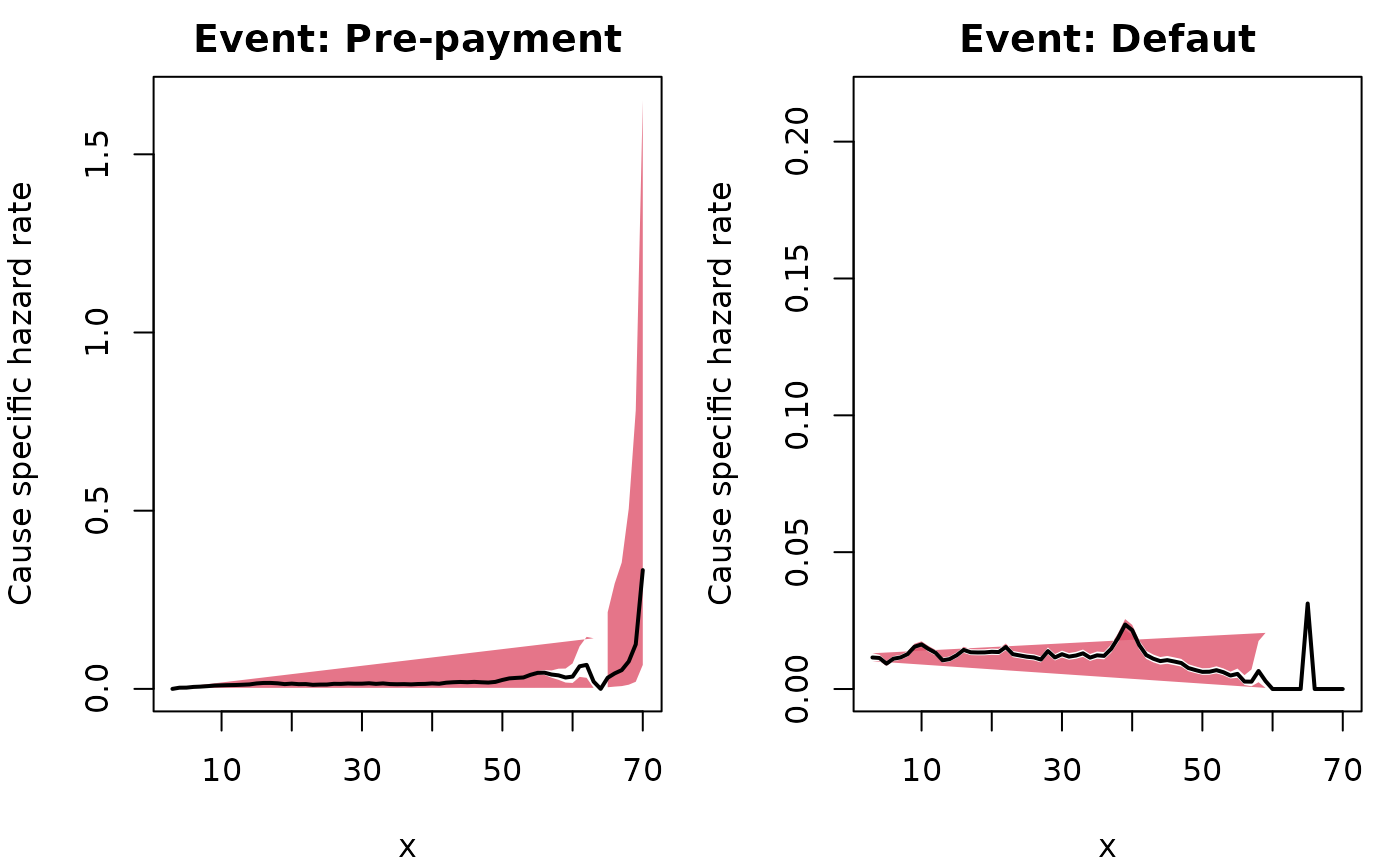
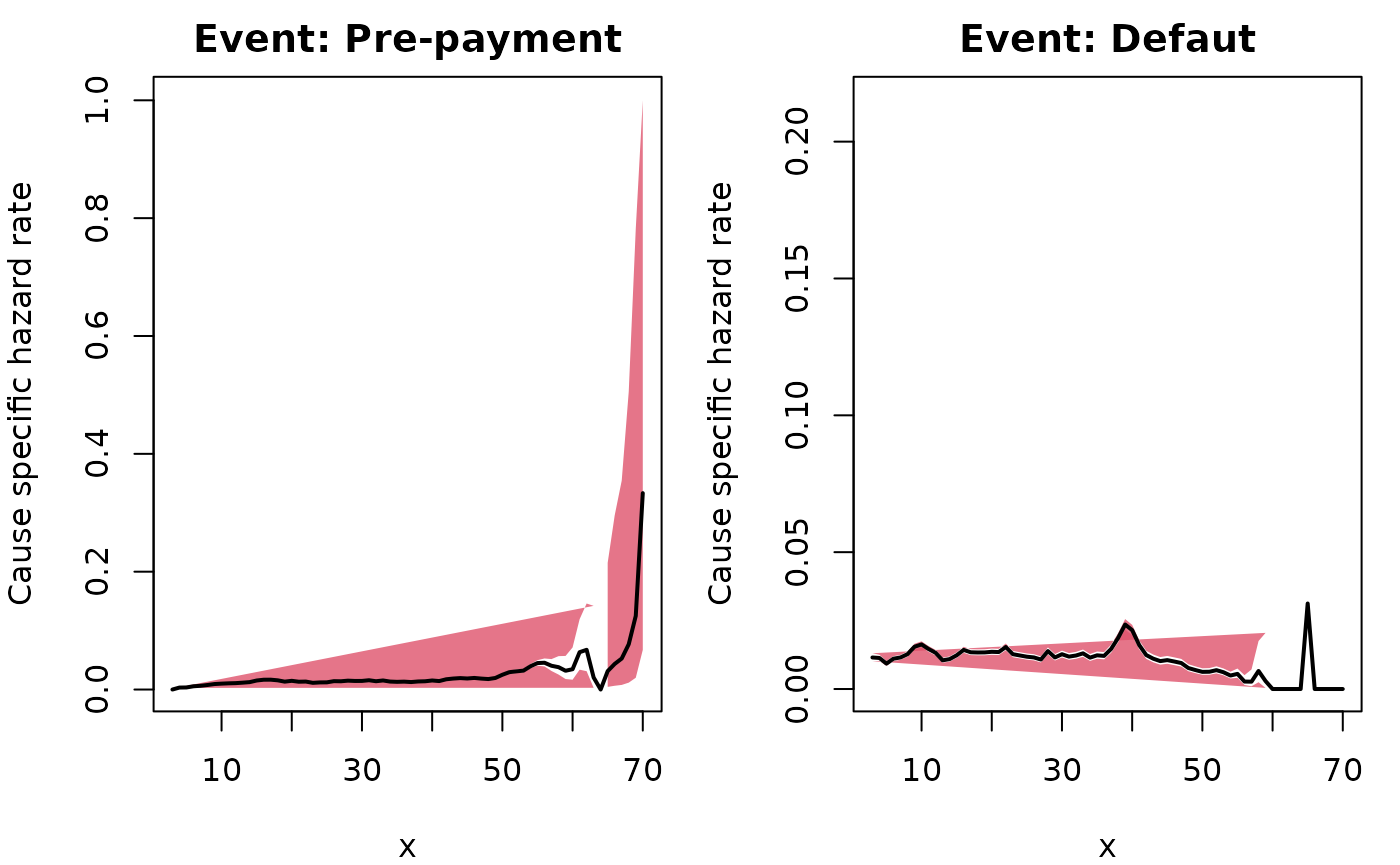
Deploying to gh-pages from @ lcgodoy/abslife@db1a2afc0ea23b44e1aec24ba1a9eeefe07b676d 🚀

diff --git a/news/index.html b/news/index.html
@@ -43,7 +43,8 @@
 
     <div class="section level2">
 <h2 class="pkg-version" data-toc-text="0.0.95" id="abslife-0095">abslife 0.0.95<a class="anchor" aria-label="anchor" href="#abslife-0095"></a></h2>
-<ul><li><p><code>hazard</code> CI upper bound does not exceed 1 anymore.</p></li>
+<ul><li><p><code>hazard</code> CI fixed for graphis with multiple confidence levels as well.</p></li>
+<li><p><code>hazard</code> CI upper bound does not exceed 1 anymore.</p></li>
 <li><p>Now we have a <code>ci_level</code> parameter that allows plotting multiple confidence intervals at once and changed default colors for plotting.</p></li>
 <li><p><code>calc_cdf</code> function also esimates the density (in addition to the CDF) and its output has been modified to a <code>data.frame</code> with the <code>lifetime</code> and the respective density and CDF evaluations.</p></li>
 <li><p><code>summary</code> and <code>plot</code> methods for the output of the <code>calc_cdf</code> function.</p></li>

diff --git a/news/index.md b/news/index.md
@@ -2,6 +2,8 @@
 
 ## abslife 0.0.95
 
+- `hazard` CI fixed for graphis with multiple confidence levels as well.
+
 - `hazard` CI upper bound does not exceed 1 anymore.
 
 - Now we have a `ci_level` parameter that allows plotting multiple
